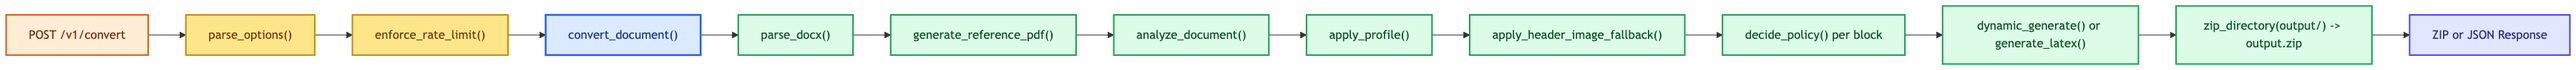
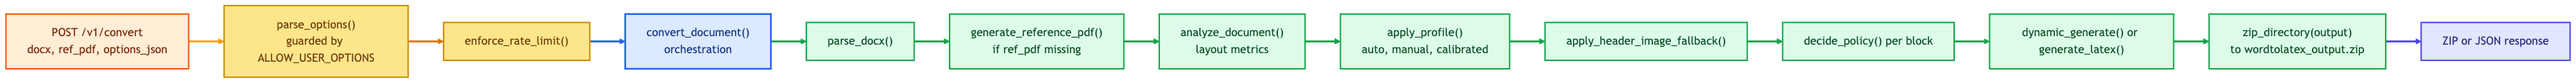
Refine C4 diagrams: colored arrows and overlap fix

diff --git a/docs/ARCHITECTURE.md b/docs/ARCHITECTURE.md
@@ -7,21 +7,27 @@ All diagrams use color/styling so responsibilities and trust boundaries are easy
 
 ```mermaid
 flowchart LR
-    user["User<br/>(Uploads DOCX, downloads ZIP)"]
-    maintainer["Maintainer / Developer<br/>(Operates services)"]
+    user["User<br/>Uploads DOCX and downloads ZIP"]
+    maintainer["Maintainer<br/>Operates services"]
 
-    system["Word-to-LaTeX Platform<br/>DOCX -> LaTeX conversion service"]
+    system["Word-to-LaTeX Platform<br/>DOCX to LaTeX conversion service"]
 
-    office["LibreOffice / soffice<br/>(Reference PDF generation)"]
-    gemini["Gemini API<br/>(Optional enhancement)"]
-    localLlm["Local GGUF Model<br/>(Optional routing/classification)"]
+    office["LibreOffice / soffice<br/>Reference PDF generation"]
+    gemini["Gemini API<br/>Optional enhancement"]
+    localLlm["Local GGUF Model<br/>Optional routing and classification"]
 
-    user -->|Upload DOCX, get ZIP/JSON| system
-    maintainer -->|Configure + deploy| system
+    user -->|Request flow| system
+    maintainer -->|Operations flow| system
 
-    system -->|Convert DOCX to PDF (optional)| office
-    system -->|LLM prompt/response (optional)| gemini
-    system -->|Inference (optional)| localLlm
+    system -->|Reference PDF flow| office
+    system -->|AI enhancement flow| gemini
+    system -->|LLM routing flow| localLlm
+
+    linkStyle 0 stroke:#F59E0B,stroke-width:3px;
+    linkStyle 1 stroke:#64748B,stroke-width:3px;
+    linkStyle 2 stroke:#0EA5A6,stroke-width:3px;
+    linkStyle 3 stroke:#8B5CF6,stroke-width:3px;
+    linkStyle 4 stroke:#0284C7,stroke-width:3px;
 
     classDef actor fill:#FFE6C9,stroke:#D97706,color:#7C2D12,stroke-width:2px;
     classDef system fill:#DBEAFE,stroke:#2563EB,color:#1E3A8A,stroke-width:2.5px;
@@ -64,8 +70,8 @@ flowchart TB
       gemini["Gemini API"]
     end
 
-    nextUi --> app
-    browserUi --> app
+    nextUi --> convApi
+    browserUi --> webApi
 
     app --> convApi
     app --> webApi
@@ -80,6 +86,19 @@ flowchart TB
     svc -."ref PDF generation".-> soffice
     svc -."LLM routing".-> local
     svc -."AI enhancement".-> gemini
+
+    linkStyle 0 stroke:#F59E0B,stroke-width:3px;
+    linkStyle 1 stroke:#F59E0B,stroke-width:3px;
+    linkStyle 2 stroke:#2563EB,stroke-width:3px;
+    linkStyle 3 stroke:#2563EB,stroke-width:3px;
+    linkStyle 4 stroke:#2563EB,stroke-width:3px;
+    linkStyle 5 stroke:#D97706,stroke-width:3px;
+    linkStyle 6 stroke:#D97706,stroke-width:3px;
+    linkStyle 7 stroke:#16A34A,stroke-width:3px;
+    linkStyle 8 stroke:#9333EA,stroke-width:3px;
+    linkStyle 9 stroke:#0EA5A6,stroke-width:3px,stroke-dasharray:6 4;
+    linkStyle 10 stroke:#0284C7,stroke-width:3px,stroke-dasharray:6 4;
+    linkStyle 11 stroke:#8B5CF6,stroke-width:3px,stroke-dasharray:6 4;
 
     classDef client fill:#FEF3C7,stroke:#D97706,color:#78350F,stroke-width:2px;
     classDef api fill:#DBEAFE,stroke:#2563EB,color:#1E3A8A,stroke-width:2px;
@@ -96,28 +115,41 @@ flowchart TB
 
 ```mermaid
 flowchart LR
-    request["POST /v1/convert<br/>(docx, ref_pdf?, options_json?)"]
+    request["POST /v1/convert<br/>docx, ref_pdf, options_json"]
 
-    options["parse_options()<br/>(guarded by ALLOW_USER_OPTIONS)"]
+    options["parse_options()<br/>guarded by ALLOW_USER_OPTIONS"]
     limiter["enforce_rate_limit()"]
 
-    convertSvc["convert_document()<br/>(orchestration)"]
+    convertSvc["convert_document()<br/>orchestration"]
 
     parseDocx["parse_docx()"]
-    refPdf["generate_reference_pdf()<br/>(if ref_pdf missing)"]
-    analyze["analyze_document()<br/>(layout metrics)"]
-    applyProfile["apply_profile()<br/>(auto/manual/calibrated)"]
+    refPdf["generate_reference_pdf()<br/>if ref_pdf missing"]
+    analyze["analyze_document()<br/>layout metrics"]
+    applyProfile["apply_profile()<br/>auto, manual, calibrated"]
     headerFallback["apply_header_image_fallback()"]
     assignPolicy["decide_policy() per block"]
     render["dynamic_generate() or generate_latex()"]
-    package["zip_directory(output/)<br/>-> wordtolatex_output.zip"]
+    package["zip_directory(output)<br/>to wordtolatex_output.zip"]
 
-    response["FileResponse (ZIP)<br/>or ConversionResponse (JSON)"]
+    response["ZIP or JSON response"]
 
     request --> options --> limiter --> convertSvc
     convertSvc --> parseDocx
     parseDocx --> refPdf
     refPdf --> analyze --> applyProfile --> headerFallback --> assignPolicy --> render --> package --> response
+
+    linkStyle 0 stroke:#F59E0B,stroke-width:3px;
+    linkStyle 1 stroke:#D97706,stroke-width:3px;
+    linkStyle 2 stroke:#2563EB,stroke-width:3px;
+    linkStyle 3 stroke:#16A34A,stroke-width:3px;
+    linkStyle 4 stroke:#16A34A,stroke-width:3px;
+    linkStyle 5 stroke:#16A34A,stroke-width:3px;
+    linkStyle 6 stroke:#16A34A,stroke-width:3px;
+    linkStyle 7 stroke:#16A34A,stroke-width:3px;
+    linkStyle 8 stroke:#16A34A,stroke-width:3px;
+    linkStyle 9 stroke:#16A34A,stroke-width:3px;
+    linkStyle 10 stroke:#16A34A,stroke-width:3px;
+    linkStyle 11 stroke:#4F46E5,stroke-width:3px;
 
     classDef ingress fill:#FFEDD5,stroke:#EA580C,color:#7C2D12,stroke-width:2px;
     classDef guard fill:#FDE68A,stroke:#CA8A04,color:#713F12,stroke-width:2px;
